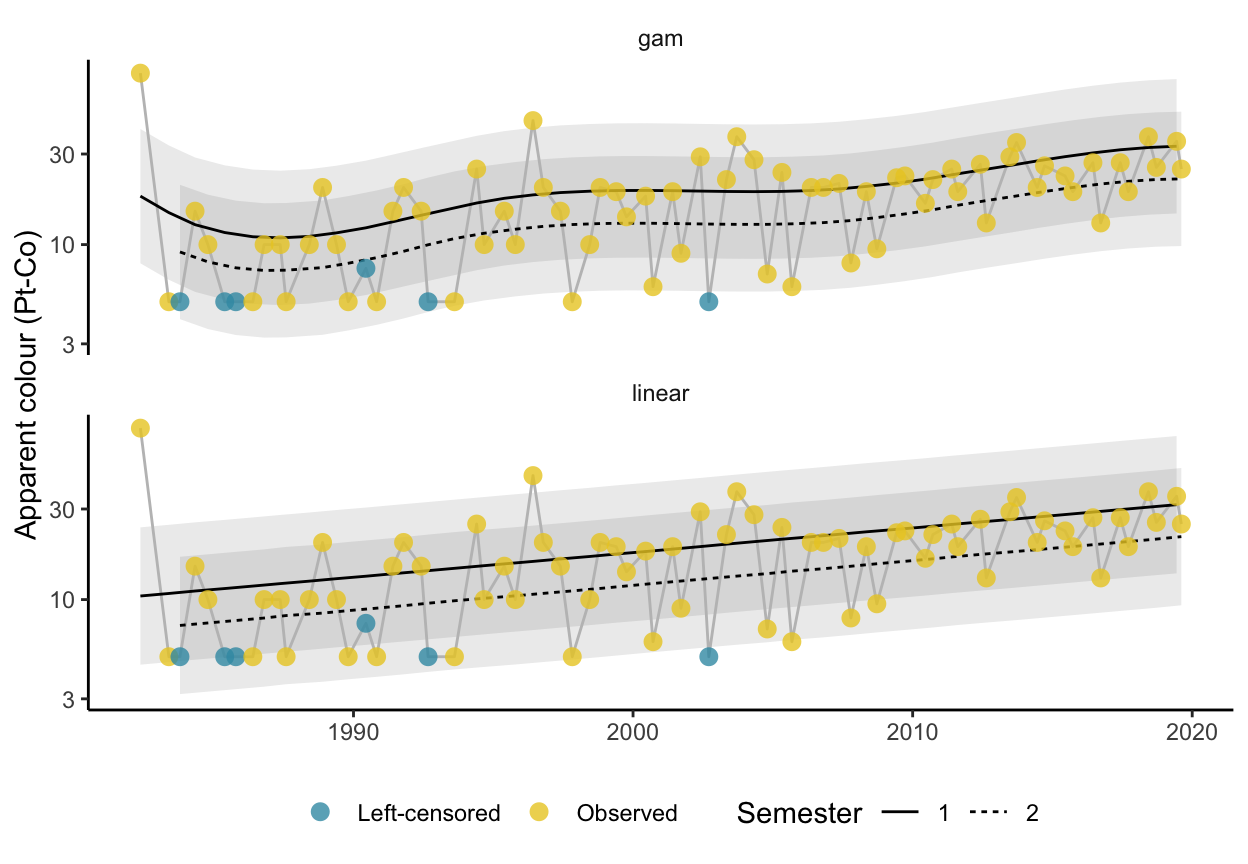
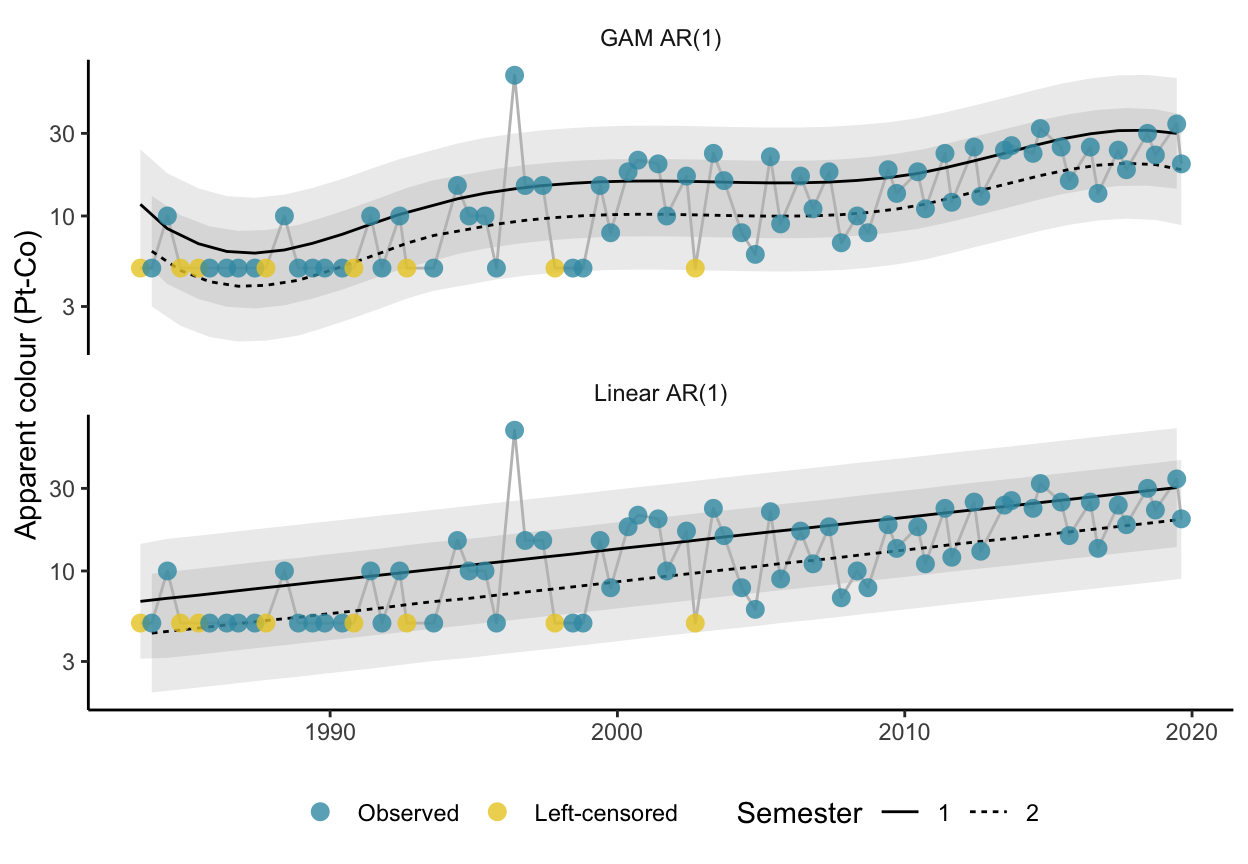
added brms

diff --git a/_posts/2021-09-08-a-brownification-pause/a-brownification-pause.html b/_posts/2021-09-08-a-brownification-pause/a-brownification-pause.html
@@ -119,7 +119,7 @@ code span.wa { color: #5e5e5e; font-style: italic; } /* Warning */
   <!--/radix_placeholder_rmarkdown_metadata-->
   
   <script type="text/json" id="radix-resource-manifest">
-  {"type":"character","attributes":{},"value":["a-brownification-pause_files/anchor-4.2.2/anchor.min.js","a-brownification-pause_files/bowser-1.9.3/bowser.min.js","a-brownification-pause_files/distill-2.2.21/template.v2.js","a-brownification-pause_files/figure-html5/diagnostics-1.png","a-brownification-pause_files/figure-html5/plot-1.png","a-brownification-pause_files/figure-html5/plot-carx-1.png","a-brownification-pause_files/figure-html5/qq-1.png","a-brownification-pause_files/figure-html5/r-vs-time-1.png","a-brownification-pause_files/header-attrs-2.10/header-attrs.js","a-brownification-pause_files/jquery-1.11.3/jquery.min.js","a-brownification-pause_files/popper-2.6.0/popper.min.js","a-brownification-pause_files/tippy-6.2.7/tippy-bundle.umd.min.js","a-brownification-pause_files/tippy-6.2.7/tippy-light-border.css","a-brownification-pause_files/tippy-6.2.7/tippy.css","a-brownification-pause_files/tippy-6.2.7/tippy.umd.min.js","a-brownification-pause_files/webcomponents-2.0.0/webcomponents.js","BEAVERSKIN-LAKE.csv","BIG-DAM-EAST-LAKE.csv","COBRIELLE-LAKE.csv","references.bib","UPPER-SILVER-LAKE.csv"]}
+  {"type":"character","attributes":{},"value":["a-brownification-pause_files/anchor-4.2.2/anchor.min.js","a-brownification-pause_files/bowser-1.9.3/bowser.min.js","a-brownification-pause_files/distill-2.2.21/template.v2.js","a-brownification-pause_files/figure-html5/diagnostics-1.png","a-brownification-pause_files/figure-html5/model-preds-1.png","a-brownification-pause_files/figure-html5/plot-1.png","a-brownification-pause_files/figure-html5/plot-carx-1.png","a-brownification-pause_files/figure-html5/qq-1.png","a-brownification-pause_files/figure-html5/r-vs-time-1.png","a-brownification-pause_files/header-attrs-2.10/header-attrs.js","a-brownification-pause_files/jquery-1.11.3/jquery.min.js","a-brownification-pause_files/popper-2.6.0/popper.min.js","a-brownification-pause_files/tippy-6.2.7/tippy-bundle.umd.min.js","a-brownification-pause_files/tippy-6.2.7/tippy-light-border.css","a-brownification-pause_files/tippy-6.2.7/tippy.css","a-brownification-pause_files/tippy-6.2.7/tippy.umd.min.js","a-brownification-pause_files/webcomponents-2.0.0/webcomponents.js","BEAVERSKIN-LAKE.csv","BIG-DAM-EAST-LAKE.csv","COBRIELLE-LAKE.csv","references.bib","UPPER-SILVER-LAKE.csv"]}
   </script>
   <!--radix_placeholder_navigation_in_header-->
   <!--/radix_placeholder_navigation_in_header-->
@@ -1481,53 +1481,61 @@ code span.wa { color: #5e5e5e; font-style: italic; } /* Warning */
 </div>
 
 <div class="d-article">
-<!-- compare AIC of linear model and 10 df spline -->
 <div class="layout-chunk" data-layout="l-body">
 
 </div>
-<p>Recently I came across a new paper titled “Brownification on hold: What traditional analyses miss in extended surface water records” <span class="citation" data-cites="eklof_brownification_2021">(<a href="#ref-eklof_brownification_2021" role="doc-biblioref">Eklöf et al. 2021</a>)</span>. In it, the authors argue that linear trend analysis misses important nonlinearities in surface water time series. Specifically, the authors argue that surface water browning—increases in coloured organic matter—has paused in recent decades and that generalized additive modeling would be better suited than linear trend estimation to identify this pause. Earlier this year I cowrote an article <span class="citation" data-cites="redden_chemical_2021">(<a href="#ref-redden_chemical_2021" role="doc-biblioref">Redden et al. 2021</a>)</span> describing a linear trend analysis of surface water time series in Nova Scotia. We found strong evidence of browning in many surface waters, but I thought I’d briefly revisit that analysis here to see if we missed anything that a nonlinear trend analysis wouldn’t.</p>
-<p>But there is a significant roadblock to fitting generalized additive models (GAMs) to the data from our paper—at least, GAMs as they are implemented in the popular R package <code>mgcv</code>. That is, <code>mgcv</code> does not permit modeling of autocorrelation and left-censoring (values below a detection limit) simultaneously (censored autoregression).</p>
+<p>I recently came across a new paper titled “Brownification on hold: What traditional analyses miss in extended surface water records” <span class="citation" data-cites="eklof_brownification_2021">(<a href="#ref-eklof_brownification_2021" role="doc-biblioref">Eklöf et al. 2021</a>)</span>. In it, the authors argue that linear trend analysis misses important nonlinearities in surface water quality records. Specifically, the authors argue that surface water browning—increases in coloured organic matter—has paused in recent decades and that generalized additive modeling would be better suited than linear regression to describe that pause.</p>
+<p>Earlier this year I cowrote an article <span class="citation" data-cites="redden_chemical_2021">(<a href="#ref-redden_chemical_2021" role="doc-biblioref">Redden et al. 2021</a>)</span> describing a linear trend analysis of surface water time series in Nova Scotia. We found strong evidence of browning in many surface waters, but I thought I’d briefly revisit that analysis here to see if we missed anything that a nonlinear trend analysis wouldn’t. This isn’t meant to be a full reanalysis of the data, but it might point in the direction that a future analysis would take.</p>
+<p>There is a significant roadblock to fitting generalized additive models (GAMs) to the data from our paper: GAMs—at least, as they are implemented in the popular R package <code>mgcv</code>—do not allow <em>censored autoregression</em> (models of autocorrelated time series where part of the series is censored).</p>
 <p>One option for censored autoregression is the <code>carx</code> package in R. It’s primary function, <code>carx::carx()</code>, also permits a matrix of external covariates that can include a basis expansion—making it possible to fit a GAM to a left-censored, autocorrelated time series.</p>
-<p>Here I demonstrate the package on a single time series, one of many we used in the paper. Here are the data:</p>
+<p>In this post I demonstrate the package on a single measurement series, one of many we used in <span class="citation" data-cites="redden_chemical_2021"><a href="#ref-redden_chemical_2021" role="doc-biblioref">Redden et al.</a> (<a href="#ref-redden_chemical_2021" role="doc-biblioref">2021</a>)</span> The data are sourced from Environment Canada, as described in the paper.</p>
 <div class="layout-chunk" data-layout="l-body">
 <p><img src="a-brownification-pause_files/figure-html5/plot-1.png" width="624" /></p>
 </div>
 <div class="layout-chunk" data-layout="l-body">
 
 </div>
-<p>Apparent colour values below 5 Pt-Co are left-censored, and these account for 7.8% of the time series. To generate a regular time series, I aggregated the data into semesters by taking medians, and I excluded a single value collected in 1970, 9 years before the next measurement. I chose to handle missing values in the series by left-censoring them at a limit of positive infinity. When aggregation into semesters required taking the midpoint of one left-censored and one observed value, the output was left-censored at the midpoint between the observed value and the censoring limit. The response was log-transformed prior to fitting the model, and the matrix of covariates comprised a cubic regression spline basis expansion of the time variable using <code>splines::bs()</code> with 5 degrees of freedom. The model also included a semester as a covariate to account for seasonal variation in the series.</p>
+<p>In the series, 10% of apparent colour values below 5 Pt-Co are left-censored. To generate a regularly spaced time series, I aggregated the data into semesters by taking medians, and I excluded values collected before 1983. When aggregation into semesters required taking the midpoint of a left-censored and an observed value, the output was left-censored at the midpoint between the observed value and the censoring limit.</p>
+<p>I chose to handle missing values by left-censoring them at a limit of positive infinity. The response was log-transformed prior to fitting the model, and the matrix of covariates comprised a cubic regression spline basis expansion of the time variable using <code>splines::bs()</code> with 6 degrees of freedom. The model also included semester as a binary covariate to account for seasonal variation.</p>
 <div class="layout-chunk" data-layout="l-body">
 
 </div>
-<p>Here are the model predictions along with a 95% confidence interval on the predicted values.</p>
+<p>As a point of comparison, I fit a separate censored autoregression with a linear time covariate. Here are the linear model and GAM predictions along with 95% confidence intervals on the predicted values:</p>
 <div class="layout-chunk" data-layout="l-body">
 <p><img src="a-brownification-pause_files/figure-html5/plot-carx-1.png" width="624" /></p>
 </div>
-<p>The linear model yielded an AIC of -41, whereas the cubic regression spline model yielded an AIC of -36.</p>
-<p>The regression spline residuals showed no clear deviations from whiteness; here, the grey band denotes <span class="math inline">\(\pm1.96/\sqrt{n}\)</span>, the approximate 95% confidence bands on the autocorrelation function of a white noise series.</p>
+<p>While the GAM does appear to track the series slightly better, the linear model yielded an AIC of -53, whereas the cubic regression spline model yielded a larger AIC of -49.</p>
+<p>The linear covariate model also yielded residuals with no obvious deviations from whiteness, whereas the GAM residuals did exhibit negative autocorrelation at lag 1. For comparison, equivalent models fit using the function <code>lm()</code> (no autoregression) are shown as well. The grey band denotes <span class="math inline">\(\pm1.96/\sqrt{n}\)</span>, the approximate 95% confidence bands on the autocorrelation function of white noise.</p>
 <div class="layout-chunk" data-layout="l-body">
 <p><img src="a-brownification-pause_files/figure-html5/diagnostics-1.png" width="624" /></p>
 </div>
-<p>Model residuals were approximately Gaussian…</p>
+<p>Both autoregressions yielded residuals that were approximately Gaussian, albeit with somewhat fatter tails than expected (the <code>carx</code> method is robust against mild departures from normality <span class="citation" data-cites="wang_carx_2017">(<a href="#ref-wang_carx_2017" role="doc-biblioref">Wang and Chan 2017</a>)</span>).</p>
 <div class="layout-chunk" data-layout="l-body">
 <p><img src="a-brownification-pause_files/figure-html5/qq-1.png" width="624" /></p>
 </div>
-<p>… and variance was reasonably constant, apart from a few outliers.</p>
+<p>The variance of the residuals was also reasonably constant, apart from a few outliers and perhaps a slight reduction in later years.</p>
 <div class="layout-chunk" data-layout="l-body">
 <p><img src="a-brownification-pause_files/figure-html5/r-vs-time-1.png" width="624" /></p>
 </div>
-<!-- extras -->
+<p>But overall, there’s not much evidence here that the GAM describes this particular series any better than the linear model. An alternative to the <code>carx</code> package is <code>brms</code> (“Bayesian Regression Models using Stan”), which accomodates both left-censoring and autoregression. Here is a sketch of the model one might fit using <code>brms::brm()</code>. Basic diagnostic plots suggest that this model needs work, but it is worth noting that it yields a smooth curve that differs little from the censored autogregression with linear time covariate.</p>
 <div class="layout-chunk" data-layout="l-body">
+<div class="sourceCode">
+<pre class="sourceCode r"><code class="sourceCode r"><span class='va'>model_in_brms</span> <span class='op'>&lt;-</span> <span class='va'>model_in</span> <span class='op'>%&gt;%</span> 
+  <span class='fu'>mutate</span><span class='op'>(</span>censored <span class='op'>=</span> <span class='fu'>if_else</span><span class='op'>(</span><span class='va'>ci</span> <span class='op'>==</span> <span class='op'>-</span><span class='fl'>1</span>, <span class='st'>"left"</span>, <span class='st'>"none"</span><span class='op'>)</span><span class='op'>)</span>
 
+<span class='va'>model_brms</span> <span class='op'>&lt;-</span> <span class='fu'><a href='https://rdrr.io/pkg/brms/man/brm.html'>brm</a></span><span class='op'>(</span>
+  <span class='fu'><a href='https://rdrr.io/pkg/brms/man/brmsformula.html'>bf</a></span><span class='op'>(</span><span class='fu'><a href='https://rdrr.io/r/base/Log.html'>log</a></span><span class='op'>(</span><span class='va'>value</span><span class='op'>)</span> <span class='op'>|</span> <span class='fu'>cens</span><span class='op'>(</span><span class='va'>censored</span><span class='op'>)</span> <span class='op'>~</span>
+       <span class='fu'><a href='https://rdrr.io/pkg/brms/man/s.html'>s</a></span><span class='op'>(</span><span class='va'>numeric_date</span><span class='op'>)</span> <span class='op'>+</span> <span class='va'>sem</span> <span class='op'>+</span> <span class='fu'><a href='https://rdrr.io/pkg/brms/man/ar.html'>ar</a></span><span class='op'>(</span>time <span class='op'>=</span> <span class='va'>numeric_date</span>, p <span class='op'>=</span> <span class='fl'>1</span><span class='op'>)</span><span class='op'>)</span>,
+  data <span class='op'>=</span> <span class='va'>model_in_brms</span>
+<span class='op'>)</span>
+</code></pre>
+</div>
 </div>
 <div class="layout-chunk" data-layout="l-body">
 
 </div>
 <div class="layout-chunk" data-layout="l-body">
-
-</div>
-<div class="layout-chunk" data-layout="l-body">
-
+<p><img src="a-brownification-pause_files/figure-html5/model-preds-1.png" width="624" /></p>
 </div>
 <div class="sourceCode" id="cb1"><pre class="sourceCode r distill-force-highlighting-css"><code class="sourceCode r"></code></pre></div>
 <div id="refs" class="references csl-bib-body hanging-indent" role="doc-bibliography">
@@ -1536,6 +1544,9 @@ Eklöf, Karin, Claudia von Brömssen, Nino Amvrosiadi, Jens Fölster, Marcus B. 
 </div>
 <div id="ref-redden_chemical_2021" class="csl-entry" role="doc-biblioentry">
 Redden, David J, Benjamin F Trueman, Dewey W Dunnington, Lindsay E Anderson, and Graham Gagnon. 2021. <span>“Chemical Recovery and Browning of <span>Nova</span> <span>Scotia</span> Surface Waters in Response to Declining Acid Deposition.”</span> <em>Environmental Science: Processes &amp; Impacts</em>, 10.1039.D0EM00425A. <a href="https://doi.org/10.1039/D0EM00425A">https://doi.org/10.1039/D0EM00425A</a>.
+</div>
+<div id="ref-wang_carx_2017" class="csl-entry" role="doc-biblioentry">
+Wang, Chao, and Kung-Sik Chan. 2017. <span>“Carx: An <span>R</span> <span>Package</span> to <span>Estimate</span> <span>Censored</span> <span>Autoregressive</span> <span>Time</span> <span>Series</span> with <span>Exogenous</span> <span>Covariates</span>.”</span> <em>The R Journal</em> 9 (2): 213. <a href="https://doi.org/10.32614/RJ-2017-064">https://doi.org/10.32614/RJ-2017-064</a>.
 </div>
 </div>
 <!--radix_placeholder_article_footer-->
